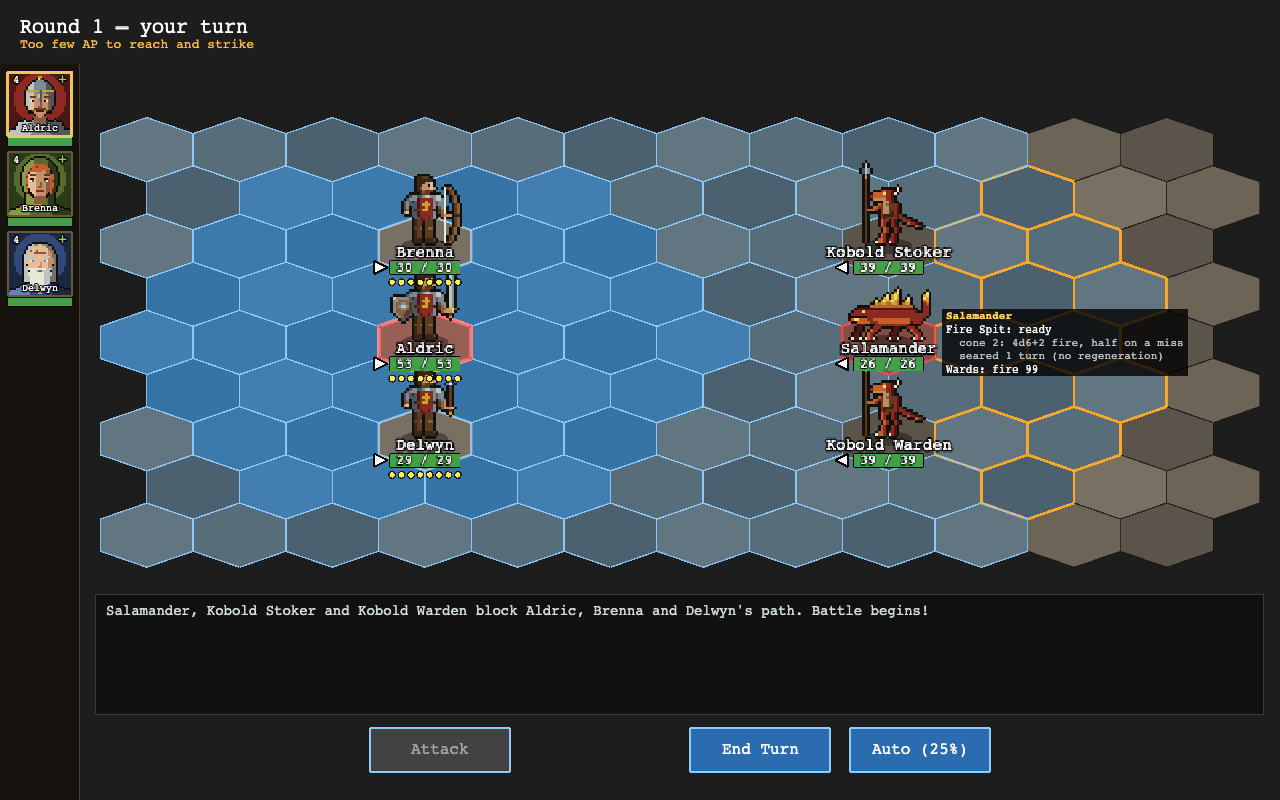
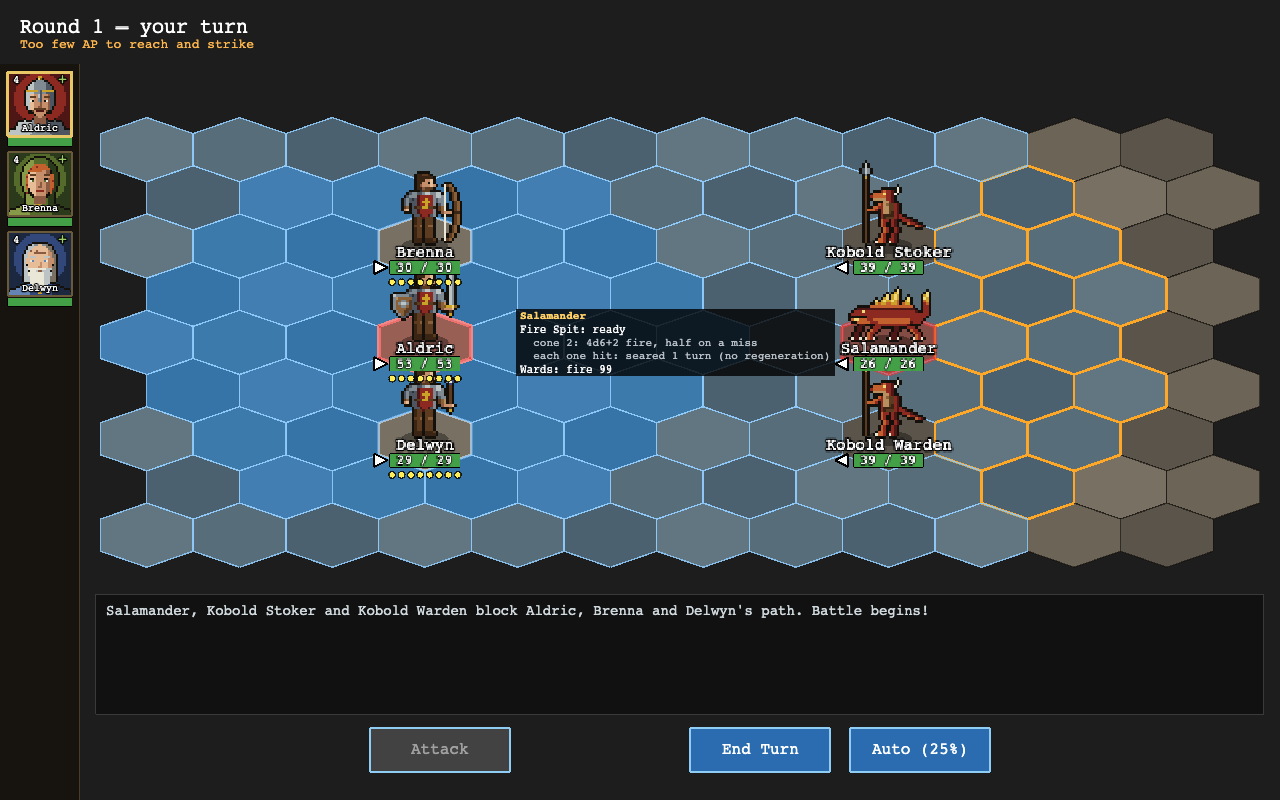
Stage 11 verification: an area's status line in the hover panel says it is laid on each one hit; manual text and two screenshots

diff --git a/src/scenes/foeInfo.test.ts b/src/scenes/foeInfo.test.ts
@@ -42,11 +42,19 @@ describe('foeInfoLines', () => {
       expect(describe1({ abilities: ['spider_web'] })).toEqual(['Web: ready', '  burst 1, range 4: webbed 2 turns (−4 AP)'])
     })
 
-    it('Fire Spit: the cone, its dice and element, half on a miss, and the status it lays', () => {
+    it('Fire Spit: the cone, its dice and element, half on a miss, and the status it lays on each one it hits', () => {
       expect(describe1({ abilities: ['fire_spit'] })).toEqual([
         'Fire Spit: ready',
         '  cone 2: 4d6+2 fire, half on a miss',
-        '  seared 1 turn (no regeneration)',
+        '  each one hit: seared 1 turn (no regeneration)',
+      ])
+    })
+
+    it('Fire Breath: the status is laid on the ones it hits, not on the dragon', () => {
+      expect(describe1({ abilities: ['dragon_breath'] })).toEqual([
+        'Fire Breath: ready',
+        '  cone 3: 6d6 fire, half on a miss',
+        '  each one hit: seared 1 turn (no regeneration)',
       ])
     })
 
@@ -61,7 +69,7 @@ describe('foeInfoLines', () => {
         '  claw 1d4+4, claw 1d4+4',
         'Fire Spit: ready',
         '  cone 2: 4d6+4 fire, half on a miss',
-        '  seared 1 turn (no regeneration)',
+        '  each one hit: seared 1 turn (no regeneration)',
       ])
     })
   })

diff --git a/src/scenes/foeInfo.ts b/src/scenes/foeInfo.ts
@@ -83,7 +83,7 @@ function effectLines(ability: Ability, bonus: number): string[] {
     ...(area.halfOnMiss ? [', half on a miss'] : []),
     ...(area.bane ? [', double dice vs the regenerating and blightborn'] : []),
   ]
-  return [`${shape}: ${harm}${notes.join('')}`, ...(area.status ? [statusPhrase(area.status)] : [])]
+  return [`${shape}: ${harm}${notes.join('')}`, ...(area.status ? [`each one hit: ${statusPhrase(area.status)}`] : [])]
 }
 
 /** "power attack: weapon blow, −10 to hit, +6 dmg": a technique's strike with its own weapon, and what it adds. */

diff --git a/docs/manual/README.md b/docs/manual/README.md
@@ -381,7 +381,7 @@ Some monsters can do more than swing a weapon:
 - **Area attacks**: a burst, a cone or a line. An area attack rolls against everyone in it, friend or foe, unless it strikes only its foes (the Ogre's Sweep, the Horror's Blight Breath). Armour's resistance does not reduce most areas' damage (breaths, spit and gazes; only a ward against the element does), but a blow that sweeps or is hurled (the Ogre's Sweep, the Hill Giant's Rock) is cut by it as a weapon hit is. Some area attacks (such as the Salamander's fire and the dragons' breath) still deal half damage on a miss.
 - **Recharge**: special attacks cost no mana, but some of them, once used, have to wait some turns before they can be used again.
 
-**Hover over a monster** to see what it can do: a small panel beside it, headed with its name, lists each special attack as "ready", "ready next turn" or "ready in 2 turns" (counting the monster's own turns), with what it does underneath (for example "cone 2: 4d6+2 fire, half on a miss" and "seared 1 turn (no regeneration)"), and any wards it has ("Wards: fire 99"). A monster that can never be poisoned or corroded, such as the Stone Golem, says so too: "Immune to acid and poison".
+**Hover over a monster** to see what it can do: a small panel beside it, headed with its name, lists each special attack as "ready", "ready next turn" or "ready in 2 turns" (counting the monster's own turns), with what it does underneath (for example "cone 2: 4d6+2 fire, half on a miss" and "each one hit: seared 1 turn (no regeneration)", a status laid on each hero the fire hits), and any wards it has ("Wards: fire 99"). A monster that can never be poisoned or corroded, such as the Stone Golem, says so too: "Immune to acid and poison".
 
 ### Skills: spells and techniques
 
